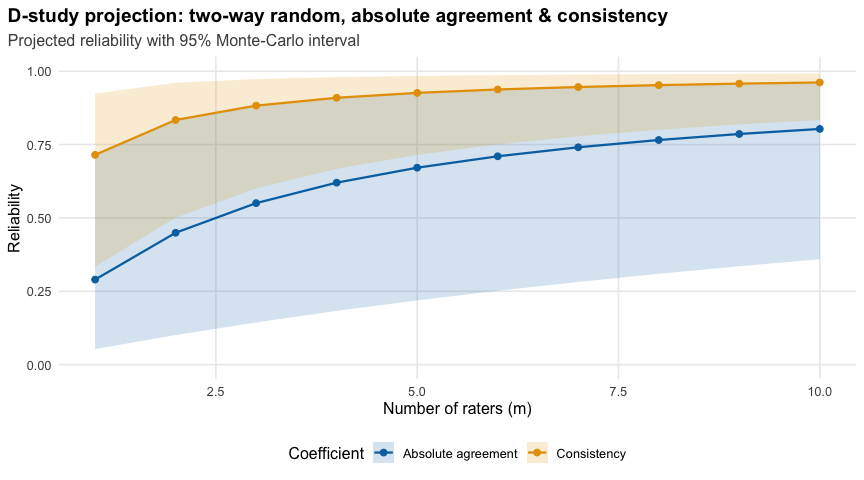
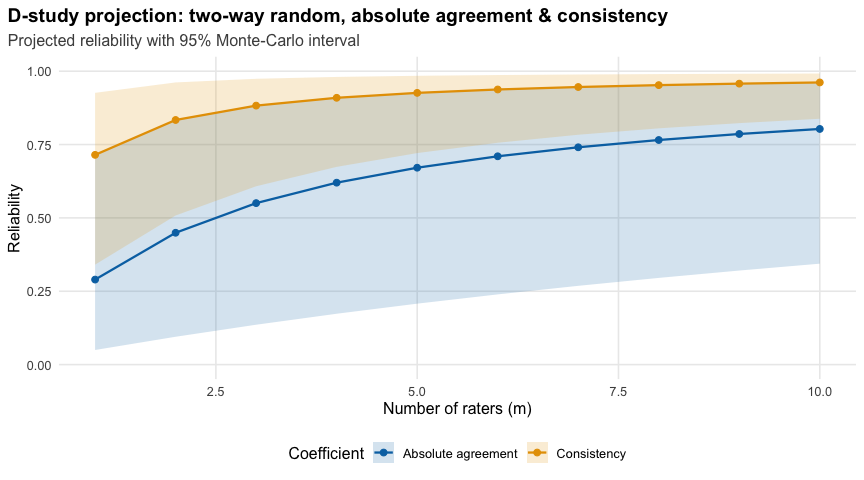
Prepare release 0.2.0
Bump the version to 0.2.0, consolidate NEWS into release notes, rebuild
the README, and update cran-comments.md.

diff --git a/NEWS.md b/NEWS.md
@@ -1,78 +1,4 @@
-# intraclass (development version)
-
-* On glmmTMB and lme4 fits, `d_study()` now checks its interval band. It
-  reads each curve's single-rating coefficient from the band's draws, at one
-  rater and one occasion. If that coefficient's two limits are exactly equal,
-  `d_study()` refuses the band with an `intraclass_zero_width_interval` error.
-  If the limits differ and the lower limit lies within 1e-12 of 1, `d_study()`
-  warns with `intraclass_unresolved_interval`. At a very large `m`, a projected
-  row can print as [1, 1] through rounding. The checks read only the
-  single-rating interval, so such a row raises neither the error nor the
-  warning by itself. Before, `d_study()`
-  applied neither check. The projected numbers are unchanged.
-
-* On the glmmTMB and lme4 engines, `ci_method = "montecarlo"` and
-  `"bootstrap"` now warn about some intervals near 1. For a single-rating row,
-  an interval whose lower limit lies within 1e-12 of 1 is now reported with an
-  `intraclass_unresolved_interval` warning. For a row that averages ratings
-  over raters, occasions or both, the bound is 1e-12 divided by the number of
-  ratings averaged. On unbalanced data the number of raters is an effective
-  number. For a numeric `unit` it is the projected number of raters. The
-  warning names its rows. Data with almost no residual variation can give such
-  an interval. An example on lme4 is scores that are exactly a subject value
-  plus a rater value. Its width can then reflect rounding rather than the data.
-  Correct intervals from scores with very little noise can also get the
-  warning. The interval itself is unchanged.
-
-* On the glmmTMB and lme4 engines, an engine error that does not come from
-  `rlang` now reaches the caller as an `intraclass_singular_fit` error. This covers
-  errors while the engine fits the model or reads the fitted parameter
-  covariance. The engine's own error is kept as its cause. Before, such errors
-  carried no package class, so a handler that catches by class missed them.
-  Two-way data whose residual is exactly zero raised them, for example scores
-  that vary only by rater. Two kinds of error pass unchanged: an error that R
-  converts from a warning under `options(warn = 2)`, and an error of class
-  `stackOverflowError`. When R converts a warning longer than
-  `getOption("warning.length")` bytes, it shortens the text, and that error is
-  still re-raised. Under `ci_method = "montecarlo"` or `"bootstrap"`, an
-  lme4 interval whose two limits are exactly equal is now refused, as a
-  glmmTMB interval already was. An interval that prints as [1, 1] but whose
-  limits differ in the last digits is still reported.
-
-* `icc()` now refuses data in which at least one subject has two or more
-  scores and no subject has two different scores. It raises an
-  `intraclass_singular_fit` error before it fits a model, on every engine.
-  A call that an argument or design check refuses first keeps that check's
-  error. Before, such data ended in an unclassed glmmTMB or lme4 error on some
-  paths. Some data have scores that differ between subjects but not within
-  any subject. On such data, a one-way lme4 fit no longer returns ICC 1 with
-  the interval [1, 1].
-
-* If the parameters package is installed, `parameters::model_parameters()`
-  now works on `icc()` results. easystats is the family of packages that
-  parameters belongs to. The method returns the `tidy()` table under the
-  easystats column names, titled "Intraclass correlation coefficients". The
-  main columns are `Parameter`, `Coefficient`, `SE`, `CI`, `CI_low`, `CI_high`
-  and `Method`. The other columns are the identifiers `Type`, `Level`,
-  `Occasions` and `SF_Index`. A `ci` value other than the confidence level of the
-  fit is an error, because the table cannot compute the interval again.
-  parameters is an optional dependency.
-
-* The package now ships a citation entry (`citation("intraclass")`), and the
-  source repository gains a `CONTRIBUTING.md` that says how to report a
-  problem, ask for help, and propose a change. The README carries a Citation
-  section and links to the contributing guide and to the companion software
-  paper's repository, <https://github.com/jmgirard/intraclass-paper>.
-
-* Four simulated teaching datasets now ship with the package: `school`
-  (pupils nested in classrooms), `school_incomplete` (the same design with a
-  fifth of the ratings dropped), `ratings_replicates` (three ratings per
-  subject-by-rater cell) and `ratings_twoway` (20 subjects by 4 raters). The
-  articles and the README load them instead of simulating data inline, so the
-  examples can be run from a fresh session with no setup. Each has a
-  reference page that names the generating script and seed. The values the
-  articles report do not change. The README's multilevel example, which
-  used its own smaller simulation before, now shows the `school` results.
+# intraclass 0.2.0
 
 ## Breaking changes
 
@@ -90,6 +16,35 @@
   the package that you attach last still masks the `icc()` function of the
   other. Call `intraclass::icc()` to be sure which function runs.
 
+## New features
+
+* If the parameters package is installed, `parameters::model_parameters()`
+  now works on `icc()` results. The method returns the `tidy()` table under
+  the column names of easystats, the family of packages that parameters
+  belongs to. The table is titled "Intraclass correlation coefficients". Its
+  main columns are `Parameter`, `Coefficient`, `SE`, `CI`, `CI_low`,
+  `CI_high` and `Method`. The other columns are the identifiers `Type`,
+  `Level`, `Occasions` and `SF_Index`. A `ci` value other than the confidence
+  level of the fit is an error, because the table cannot compute the interval
+  again. parameters is an optional dependency.
+
+* Four simulated teaching datasets now ship with the package. `school` holds
+  pupils nested in classrooms, and `school_incomplete` is the same design with
+  a fifth of the ratings dropped. `ratings_replicates` has three ratings per
+  subject-by-rater cell, and `ratings_twoway` has 20 subjects by 4 raters. The
+  articles and the README load them instead of simulating data inline, so the
+  examples run from a fresh session with no setup. Each has a reference page
+  that names the generating script and seed. The values the articles report
+  do not change. The README's multilevel example now shows the `school`
+  results.
+
+* The package now ships a citation entry, which `citation("intraclass")`
+  prints. The README carries a Citation section, which links to the
+  companion software paper's repository,
+  <https://github.com/jmgirard/intraclass-paper>. A separate README section
+  links to a new contributing guide. The guide says how to report a problem,
+  ask for help and propose a change.
+
 ## Bug fixes
 
 * If the scores spread far more than 1 unit, the default
@@ -101,85 +56,92 @@
 
 * If a default `engine = "glmmTMB"` fit stops with a variance at or near 0,
   the fit now runs once more from a second starting point. The engine is the
-  software that does the fitting. If the second fit is better than the first
-  by a set margin, or the first has no finite result, it replaces the first.
-  Otherwise the first fit is kept. A second fit whose Hessian is not positive
-  definite does not replace a first fit that has a finite result and a
-  positive definite Hessian. A Monte-Carlo interval draws from the covariance
-  that the Hessian gives, and from a Hessian that is not positive definite
-  the draws usually overflow. Only the kept fit's warnings and messages are
-  shown. Under `options(warn = 2)` or above, a failed first fit's warnings
-  are not shown, so its own error is the one you see. On test data where the default starting
-  values of glmmTMB stopped at a false 0, the fit now reaches the ICC of the
-  `lme4` engine. Under `ci_method = "montecarlo"` or `"bootstrap"`, a glmmTMB
-  interval whose two limits are exactly equal is no longer reported.
-  `icc()` stops with an error of class `intraclass_zero_width_interval`
-  instead. Before, scores that did not vary within subjects sometimes printed
-  an ICC of 1 with an interval of [1, 1]. A narrow interval whose limits
-  differ is still reported. A Monte-Carlo interval is built by drawing
-  parameter values from the fitted model's uncertainty. When one of its
-  variances overflows, the error no longer tells a glmmTMB user to refit with
-  `engine = "glmmTMB"`.
+  software that does the fitting. If only the second fit has a finite result,
+  it replaces the first. If the second fit is better by a set margin, it also
+  replaces the first. But if the first fit's Hessian is positive definite and
+  the second's is not, the first fit is kept. In all other cases the first
+  fit is kept. Only the kept fit's warnings and messages are shown. On test data where the default starting values of glmmTMB
+  stopped at a false 0, the fit now reaches the ICC of the `lme4` engine.
+
+* `icc()` now refuses data in which at least one subject has two or more
+  scores and no subject has two different scores. It raises an
+  `intraclass_singular_fit` error before it fits a model, on every engine.
+  A call that an earlier argument or design check refuses keeps that check's
+  error. Before, such data ended in an unclassed glmmTMB or lme4 error on some
+  paths. On such data whose scores differed between subjects, a one-way lme4
+  fit returned an ICC of 1 with the interval [1, 1].
+
+* On the glmmTMB and lme4 engines, an engine error that does not come from
+  `rlang` now reaches the caller as an `intraclass_singular_fit` error. This
+  covers errors while the engine fits the model or reads the fitted parameter
+  covariance. The engine's own error is kept as its cause. Before, such
+  errors carried no package class, so a handler that catches by class missed
+  them. Two-way data whose residual is exactly zero raised them, for example
+  scores that vary only by rater. An error that R converts from a warning
+  under `options(warn = 2)`, and an error of class `stackOverflowError`, pass
+  unchanged. If R shortened the warning's text, the error is still
+  re-raised.
+
+* A Monte-Carlo interval is built by drawing parameter values from the fitted
+  model's uncertainty. Under `ci_method = "montecarlo"` or `"bootstrap"`, an
+  interval whose two limits are exactly equal is no longer reported on the
+  glmmTMB and lme4 engines. `icc()` stops with an
+  `intraclass_zero_width_interval` error instead. Before, a glmmTMB fit with
+  a variance stuck at 0 sometimes printed an ICC of 0 with the interval [0, 0]. A
+  narrow interval whose limits differ is still reported.
+
+* Under the same two methods on the same two engines, `icc()` now warns about
+  some intervals near 1. For a single-rating row, an interval whose lower
+  limit lies within 1e-12 of 1 gets an `intraclass_unresolved_interval`
+  warning. For a row that averages ratings over raters, occasions or both,
+  the bound is 1e-12 divided by the number of ratings averaged. The warning
+  names its rows. Data with almost no residual variation can give such an
+  interval, and its width can then reflect rounding rather than the data.
+  Correct intervals from scores with very little noise can also get the
+  warning. The interval itself is unchanged.
+
+* On glmmTMB and lme4 fits, `d_study()` now checks its interval band in the
+  same two ways. It reads each curve's single-rating coefficient, at one
+  rater and one occasion. If that coefficient's two limits are exactly equal,
+  `d_study()` refuses the band with an `intraclass_zero_width_interval` error.
+  If the limits differ and the lower limit lies within 1e-12 of 1, it warns
+  with `intraclass_unresolved_interval`. At a very large `m`, a projected row
+  can print as [1, 1] through rounding without raising either. The projected
+  numbers are unchanged.
+
+* When a variance in a Monte-Carlo draw overflows, the error no longer tells
+  a glmmTMB user to refit with `engine = "glmmTMB"`.
 
 ## Documentation
 
-* The package's own errors, warnings, notes and install prompts now use
-  plainer English. None uses a dash as punctuation, and no
-  sentence runs past 25 words. Long sentences are split, and semicolons
-  become full stops except between references. Which condition fires, and
-  when, is unchanged. Nothing computed changes.
+* The package's messages, the reference manual, the README and the articles
+  are rewritten in plainer English. The messages cover errors, warnings,
+  notes and install prompts. They also cover the questions and advice that
+  `choose_icc()` prints, and the notes that `print()` and `summary()` add to
+  an `icc()` fit. Each glossary term is defined in plain words, or linked to
+  the *Glossary* article, where a page first uses it. Which condition or note
+  fires, and when, is unchanged. Nothing computed changes.
 
-* The questions and advice that `choose_icc()` prints, and the notes that
-  `print()` and `summary()` add to an `icc()` fit, now use plainer English.
-  None uses a dash as punctuation, and no sentence runs past 25 words. Which
-  note prints, and when, is unchanged. Five definitions in the *Glossary*
-  article were imprecise or said less than the package does, and they are
-  corrected. Every page that quoted them now carries the new text. Four error
-  messages from `icc()` and `d_study()` no longer cite internal record
-  numbers. Nothing computed changes.
+* Five definitions in the *Glossary* article were imprecise or said less than
+  the package does, and they are corrected. Every page that quoted them now
+  carries the new text. Each glossary entry now opens with a short
+  definition, or points to the entry that holds one.
 
-* Four articles now show their comparison tables as `gt` tables with a title,
-  plain column headings and rounded numbers. The four are *Comparison with
-  other packages*, *Estimation engines* (an engine is the software that does
-  the fitting), *Confidence-interval methods* and *Choosing an ICC*. The code
-  that assembles each table is hidden. The calls that fit the models stay
-  visible. The one exception is the `psych` and `irr` comparison: there, one
-  hidden chunk fits the models and builds the table. `gt` joins `Suggests:`.
-  Without it, those tables are skipped. The sentences that disagreed with
-  their tables are corrected. The packages agree to within 0.00001, not
-  exactly. In the *Choosing an ICC* incomplete-data example, the random-rater
-  interval is wider only for the agreement coefficients, which ask whether
-  raters give the same score.
+* The `icc()` help page is now titled "Intraclass correlation coefficients for
+  interrater reliability", and the `d_study()` page "Project reliability to
+  other numbers of raters". In the *Confidence-interval methods* article,
+  each `ci_method` section now opens with a paragraph on what the method is
+  for and when to choose it. Four error messages from `icc()` and `d_study()`
+  no longer cite internal record numbers.
 
-* The reference manual pages for `icc()`, `d_study()`, `choose_icc()`,
-  `ratings` and `ratings_incomplete` are rewritten in plainer English. No
-  sentence runs past 25 words, except seven on the `icc()` and `d_study()`
-  pages that carry clauses the test suite pins verbatim. Glossary terms are
-  defined in plain words where the pages first use them. The `icc()` page is
-  now titled "Intraclass correlation coefficients for interrater
-  reliability" and the `d_study()` page "Project reliability to other
-  numbers of raters". Nothing computed changes.
-
-* The *Getting started*, *Choosing an ICC* and *Glossary* articles and the
-  README are rewritten in plainer English. No sentence runs past 25 words,
-  except two glossary sentences that carry clauses the test suite pins
-  verbatim. Each glossary term is defined in plain words at its first use in
-  *Getting started*, *Choosing an ICC* and the README. The glossary's entries
-  each open with a one-sentence definition. Nothing computed changes.
-
-* Five more articles are rewritten in plainer English. A D-study projects the
-  fitted variance components to other rater or
-  [occasion](https://jmgirard.github.io/intraclass/articles/glossary.html#occasion-within-cell-replicate)
-  counts, each a share of the total variation traced to one source. One of the five covers
-  D-studies and the within-cell replicate, one of several ratings by the same
-  rater of the same subject. The five are *Estimation engines*, *Comparison with other
-  packages*, *D-studies and within-cell replicates*, *Multilevel designs* and
-  *Confidence-interval methods*. No sentence runs past 25 words, except two
-  in the interval-methods article that carry clauses the test suite pins
-  verbatim. Each glossary term is defined in plain words or linked to the
-  glossary at its first use in each article. In the interval-methods article
-  every `ci_method` section now opens with a paragraph on what the method is
-  for and when to choose it. Nothing computed changes.
+* Four articles now show their comparison tables as `gt` tables with a
+  title, plain column headings and rounded numbers. The four are *Comparison
+  with other packages*, *Estimation engines*, *Confidence-interval methods*
+  and *Choosing an ICC*. `gt` joins `Suggests:`, and without it those tables
+  are skipped. The sentences that disagreed with their tables are corrected.
+  The packages agree to within 0.00001, not exactly. In the *Choosing an ICC*
+  incomplete-data example, the random-rater interval is wider only for the
+  agreement coefficients, which ask whether raters give the same score.
 
 # intraclass 0.1.0
 

diff --git a/README.md b/README.md
@@ -103,11 +103,11 @@ fit
 #> 
 #>   index     estimate   95% CI
 #>   Absolute agreement
-#>   ICC(A,1)     0.290   [0.053, 0.714]
-#>   ICC(A,k)     0.620   [0.183, 0.909]
+#>   ICC(A,1)     0.290   [0.050, 0.717]
+#>   ICC(A,k)     0.620   [0.173, 0.910]
 #>   Consistency
-#>   ICC(C,1)     0.715   [0.334, 0.924]
-#>   ICC(C,k)     0.909   [0.667, 0.980]
+#>   ICC(C,1)     0.715   [0.341, 0.926]
+#>   ICC(C,k)     0.909   [0.674, 0.980]
 #> 
 #> Variance components: subject 2.556, rater 5.244, residual 1.019
 #> Shrout & Fleiss equivalent: ICC(A,1) = ICC(2,1), ICC(A,k) = ICC(2,k)
@@ -139,8 +139,8 @@ choose_icc(model = "twoway", type = "consistency", unit = "average", raters = "r
 #> Recommendation: ICC(C,k)
 #> 
 #> Why:
-#>   - Crossed (two-way): the same raters judge every subject.
-#>   - Consistency: only the rank order must match; a constant per-rater offset is forgiven.
+#>   - Crossed (two-way): each rater is tracked across the subjects they score.
+#>   - Consistency: only the rank order must match. A constant per-rater offset is forgiven.
 #>   - Average: you will act on the mean of your raters.
 #>   - Random raters: a sample you generalize beyond, to the rater universe they were drawn from.
 #> 
@@ -169,13 +169,13 @@ icc(school, score, subject = pupil, rater = rater, cluster = classroom, seed = 2
 #> 
 #>   level      index     estimate   95% CI
 #>   Absolute agreement
-#>   subject    ICC(A,1)     0.431   [0.256, 0.565]
-#>   subject    ICC(A,k)     0.751   [0.579, 0.838]
-#>   cluster    ICC(A,1)     0.880   [0.000, 0.972]
+#>   subject    ICC(A,1)     0.431   [0.258, 0.562]
+#>   subject    ICC(A,k)     0.751   [0.582, 0.837]
+#>   cluster    ICC(A,1)     0.880   [0.000, 0.974]
 #>   cluster    ICC(A,k)     0.967   [0.000, 0.993]
 #>   Consistency
-#>   subject    ICC(C,1)     0.493   [0.372, 0.615]
-#>   subject    ICC(C,k)     0.796   [0.703, 0.865]
+#>   subject    ICC(C,1)     0.493   [0.373, 0.616]
+#>   subject    ICC(C,k)     0.796   [0.704, 0.865]
 #>   cluster    ICC(C,1)     1.000   [0.000, 1.000]
 #>   cluster    ICC(C,k)     1.000   [0.000, 1.000]
 #> 
@@ -237,7 +237,7 @@ citation("intraclass")
 #> To cite intraclass in publications use:
 #> 
 #>   Girard J (2026). _intraclass: Modern Intraclass Correlation
-#>   Coefficients_. R package version 0.1.0.9000,
+#>   Coefficients_. R package version 0.2.0,
 #>   <https://CRAN.R-project.org/package=intraclass>.
 #> 
 #> A BibTeX entry for LaTeX users is
@@ -246,7 +246,7 @@ citation("intraclass")
 #>     title = {{intraclass}: Modern Intraclass Correlation Coefficients},
 #>     author = {Jeffrey Girard},
 #>     year = {2026},
-#>     note = {R package version 0.1.0.9000},
+#>     note = {R package version 0.2.0},
 #>     url = {https://CRAN.R-project.org/package=intraclass},
 #>   }
 #> 

diff --git a/cran-comments.md b/cran-comments.md
@@ -1,38 +1,21 @@
-## Resubmission
+## Submission
 
-This is a resubmission. The previous submission was returned with:
-
-    Flavor: r-devel-windows-x86_64
-    Check: Overall checktime, Result: NOTE
-      Overall checktime 11 min > 10 min
-
-Package behaviour is unchanged. Eight long-running tests, plus one file of
-engine-comparison tests, now call `skip_on_cran()`; they continue to run in
-this package's continuous integration and locally. On win-builder,
-`checking tests` fell from 427s to 245s (R-devel) and 435s to 241s
-(R-release).
+This is an update from 0.1.0 to 0.2.0. It renames the result classes to
+avoid a clash with the performance package. It also adds a method for
+`parameters::model_parameters()` and four example datasets, and it fixes
+several fitting and interval bugs. NEWS.md lists the changes.
 
 ## Test environments
 
-- Local: macOS Tahoe 26.6.2, aarch64-apple-darwin23, R 4.6.1
-- win-builder: R-devel (2026-08-27 r90452) and R-release (4.6.1)
+- Local: macOS 27.0.1, aarch64-apple-darwin23, R 4.6.1
+- win-builder: R-devel
 - GitHub Actions: macOS, Windows and Ubuntu, R-devel / release / oldrel-1,
   and R 4.5.0 (the declared minimum)
 
 ## R CMD check results
 
-0 errors | 0 warnings | 1 note
-
-The note is the one every first submission gets:
-
-    New submission
-    Maintainer: 'Jeffrey Girard <me@jmgirard.com>'
-
-It also lists possibly misspelled words in DESCRIPTION. All are correct:
-`ICCs`, `Intraclass`, `intraclass`, `interrater` and `generalizability` are
-standard terms in this field, and `Jorgensen` and `der` are parts of the cited
-authors' surnames (ten Hove, Jorgensen and van der Ark).
+0 errors | 0 warnings | 0 notes
 
 ## Downstream dependencies
 
-There are none; this is a new package.
+There are no reverse dependencies on CRAN.
